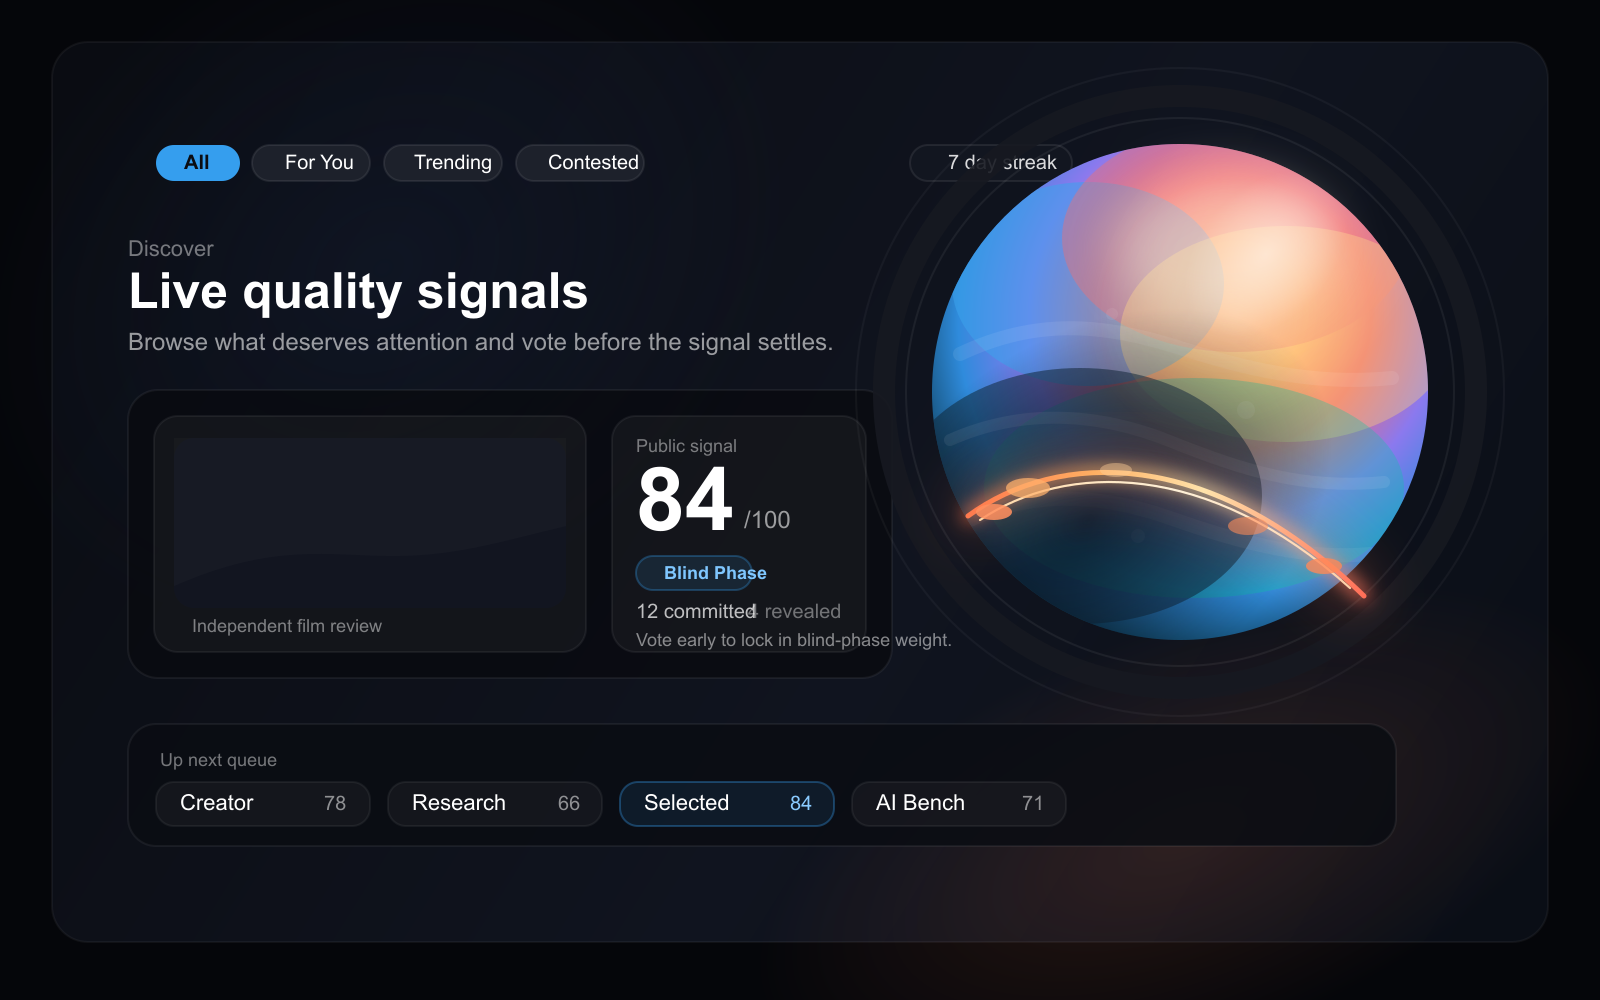
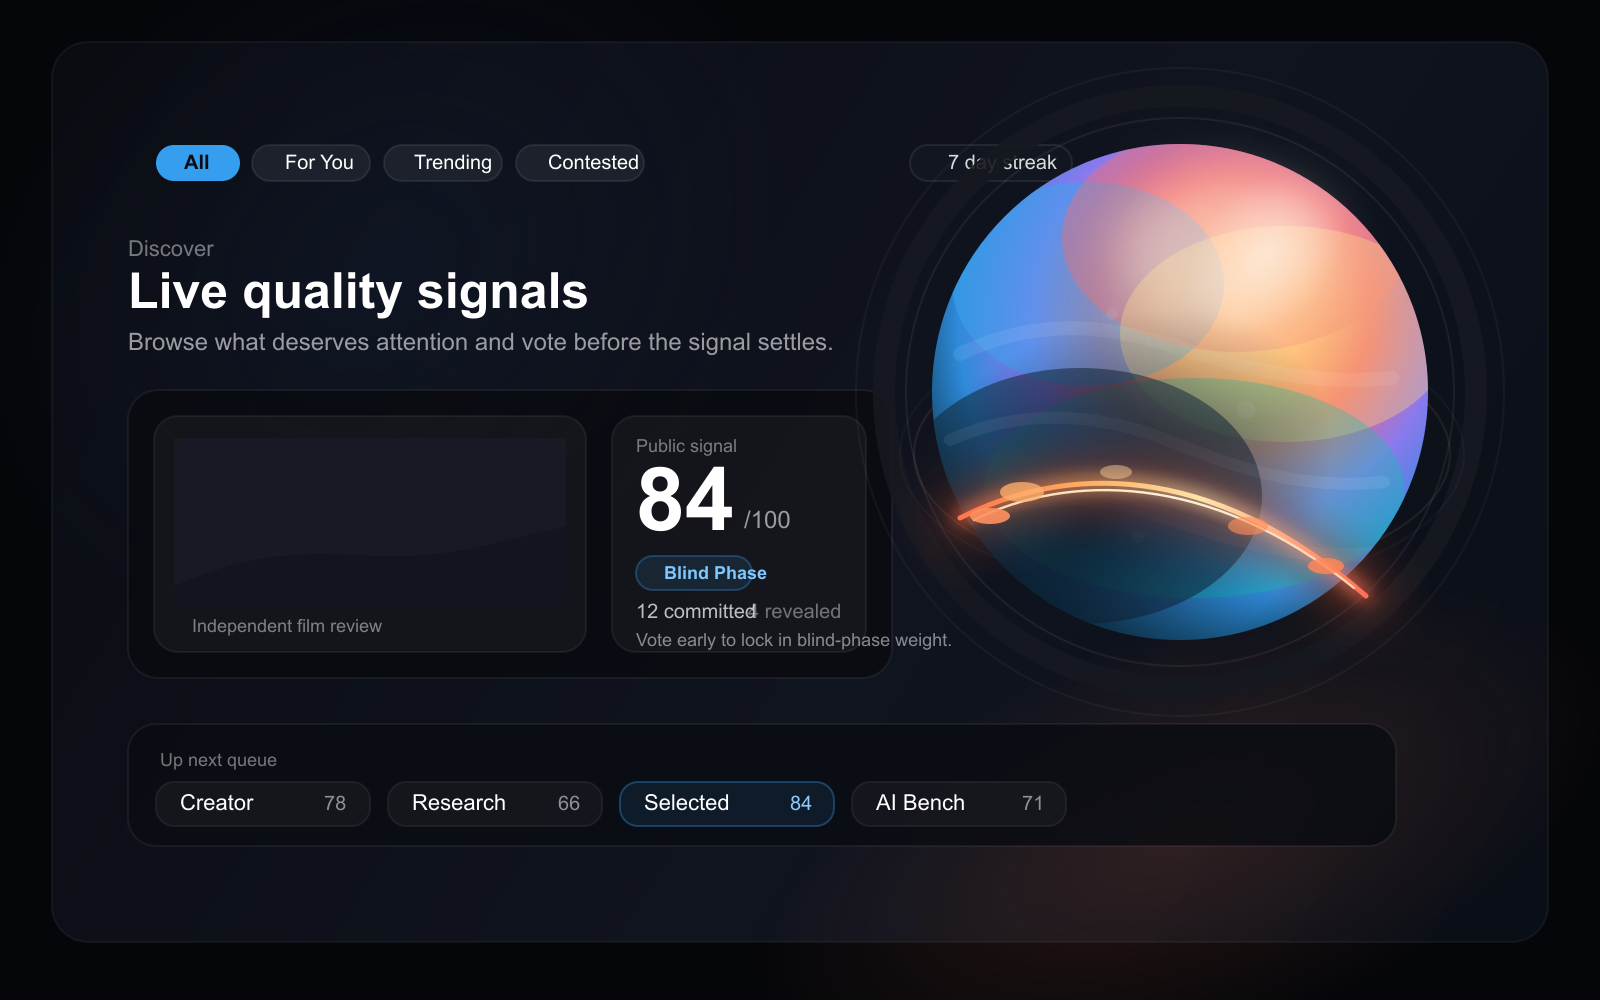
Refine flare mockups around the planet

Changed region(s): [[0.5625, 0.434, 0.875, 0.589]]

diff --git a/docs/design-mockups/README.md b/docs/design-mockups/README.md
@@ -22,6 +22,10 @@ These are two standalone visual concepts for Curyo, created as review artifacts 
    Refined SpaceFox-inspired Discover page mock-up using the current voting layout, filter bar, signal card, and queue.
    Preview export: `planet-flare-discover.png`
 
+5. `planet-flare-spacefox-theme.svg`
+   A closer SpaceFox-dashboard interpretation with warmer charcoal/rust UI treatment and a rounder geometric font feel, while keeping the Curyo multicolor signal planet.
+   Preview export: `planet-flare-spacefox-theme.png`
+
 ## Notes
 
 - Both concepts keep the current "signal planet" idea, but push it further as the main visual anchor.
